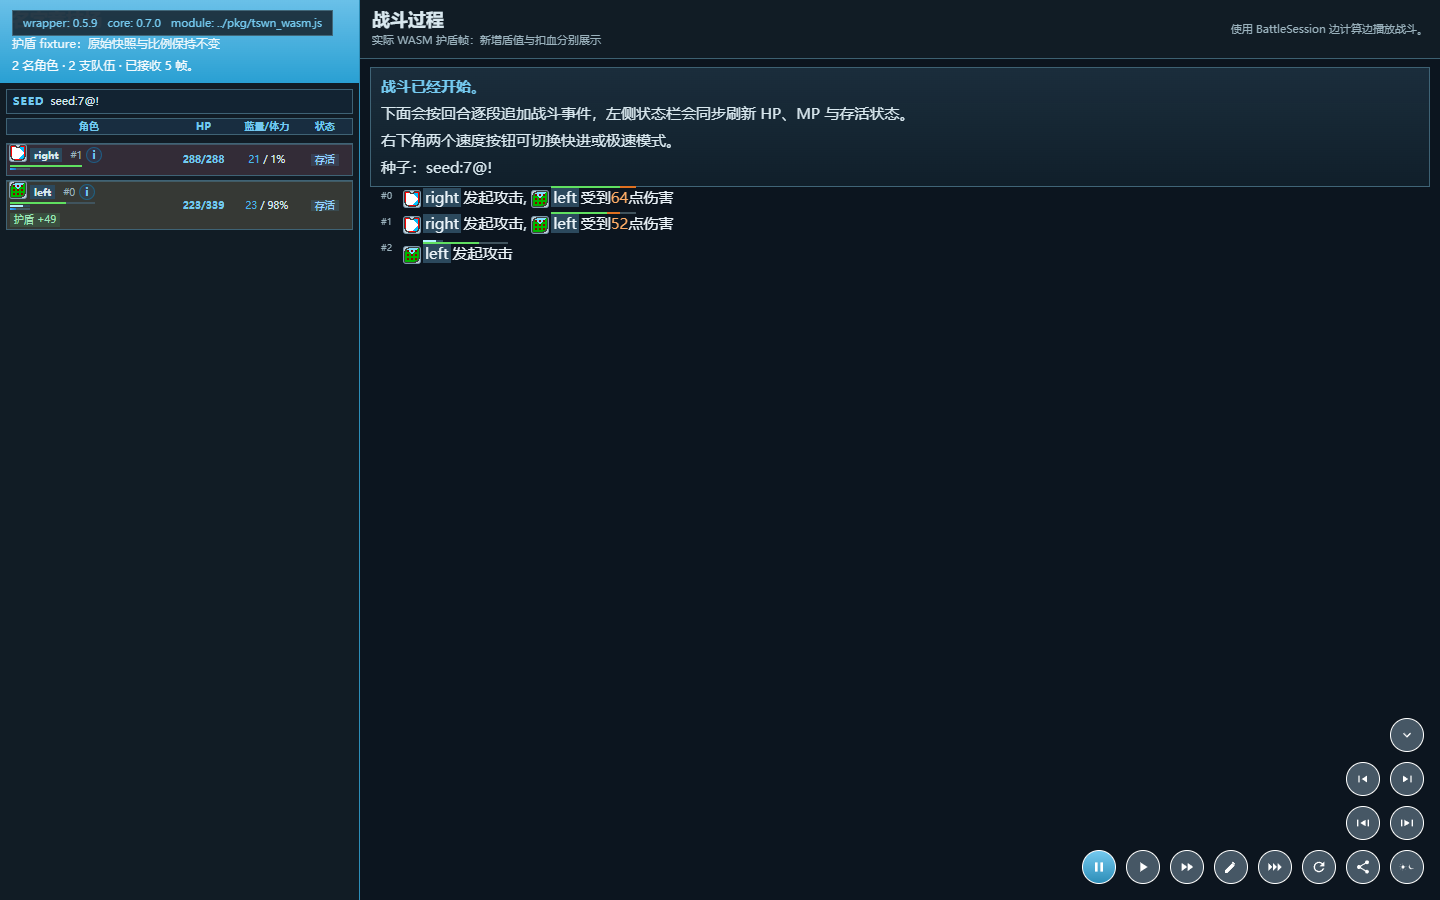
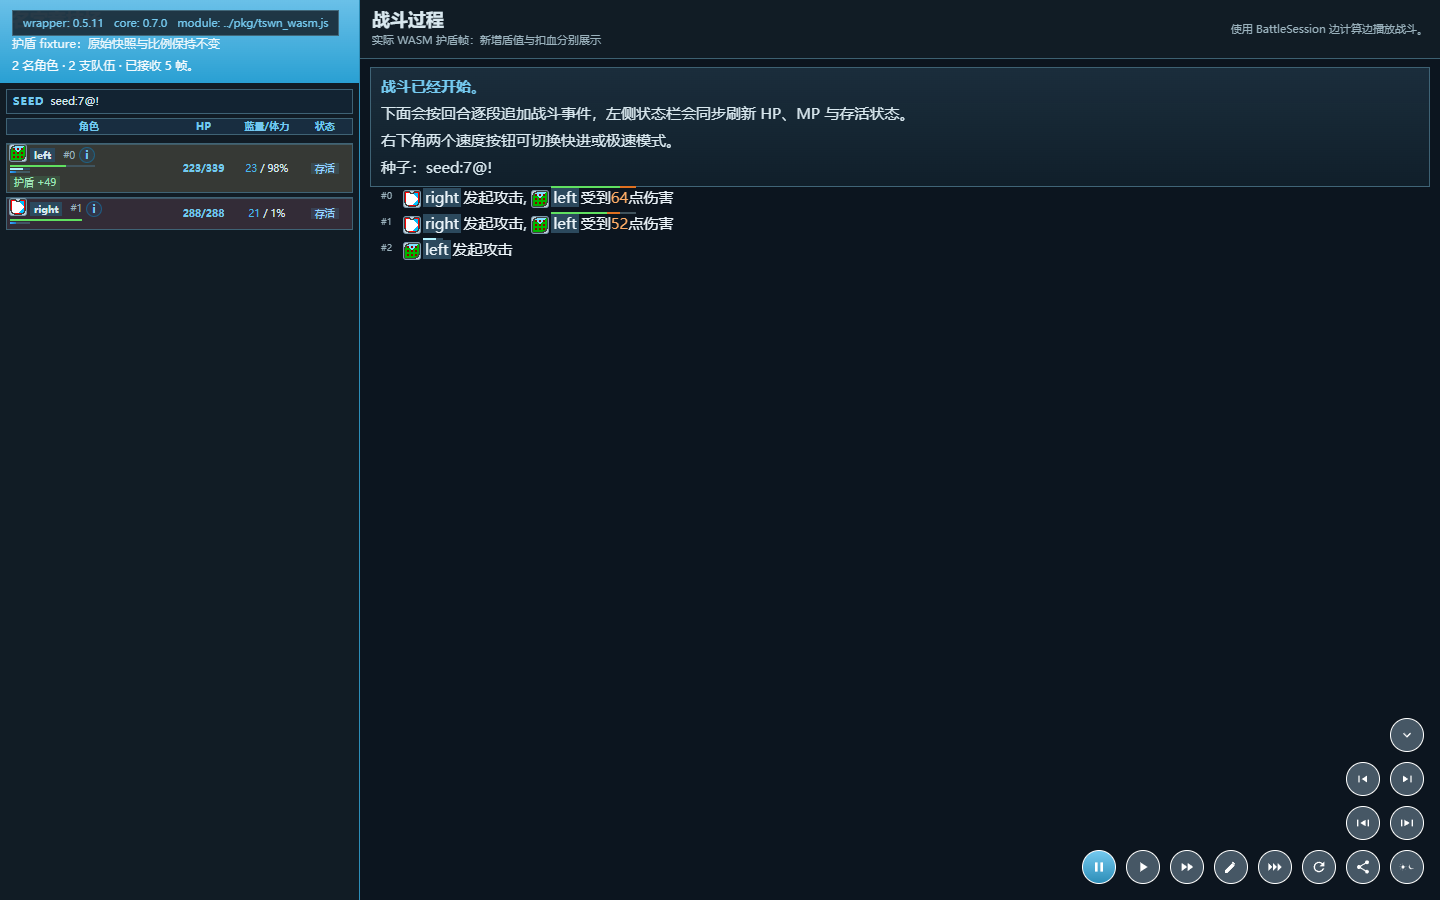
fix(wasm): 只有护盾变化时只画盾条并占用体力条槽位
之前只要盾条出现就会同时补一条体力条作为底轨，护盾单独变化时也会多画一条没变化
的 HP 条。现在两条条形各按自己的变化出现：

- 只有护盾变化：不画体力条，盾条落回体力条槽位（`.actor-vitals` 默认 `top: -2px`），
  盾条底边与名字顶边齐平。
- 体力与护盾同时变化：体力条在下、盾条紧贴其上（叠放规则收窄为 `.has-shield.has-hp`），
  行高留白也只在叠放时生效。
- 只有体力变化 / 都没变化：行为不变。

`show-render.js` 的体力条改为只由 `shouldShowHp`（体力变化或强制）触发；`show-replay.css`
的 `.has-shield .actor-vitals` 收窄为 `.has-shield.has-hp`；`show-players.css` 的行高留白
同样收窄。示例说明与 wasm README 同步改写，四张验收截图按 0.5.11 重新生成。

验证：`node --test crates/tswn_wasm/tests/show-*.test.mjs`（43 项，覆盖单盾条无体力条、
双变化叠放、单盾条占默认槽位与叠放时上移两条之和）、
`node --experimental-vm-modules scripts/verify_web_playback.mjs`（8 组）；真实浏览器实测
单盾条 token 为 `actor-token has-shield`、无 `.actor-hp`、`vitals top: -2px`、`margin-top: 0`。

Changed region(s): [[0.0, 0.1556, 0.25, 0.2489], [0.0625, 0.0, 0.25, 0.0311], [0.2812, 0.2489, 0.3438, 0.3111]]

diff --git a/crates/tswn_wasm/examples/show-render.js b/crates/tswn_wasm/examples/show-render.js
@@ -73,8 +73,9 @@ export function actorToken(player, state, previousState, update, { showHp = true
   const shieldChanged = shieldMetrics != null
     && (shieldMetrics.currentValue !== shieldMetrics.previousValue || (isNew && shieldMetrics.currentValue > 0));
   const hasShield = shieldChanged && !deathEffect;
-  // 盾条叠在体力条正上方；非扣血消息只配当前 HP，不凭快照差值制造额外扣血动画。
-  const hpMetrics = shouldShowHp || hasShield ? actorHpMetrics(state, shouldShowHp ? previousState : state) : null;
+  // 两条条形各自按自己的变化出现：只有护盾变化时不画体力条，让盾条占体力条的位置；
+  // 两条同时出现时由 CSS 竖排叠放。非扣血消息不凭快照差值制造额外扣血动画。
+  const hpMetrics = shouldShowHp ? actorHpMetrics(state, previousState) : null;
   const hpBar = hpMetrics
     ? `
             <span class="actor-hp" style="width:${hpMetrics.totalWidth}px">

diff --git a/crates/tswn_wasm/examples/show-replay.css b/crates/tswn_wasm/examples/show-replay.css
@@ -196,8 +196,11 @@
     z-index: 2;
 }
 
-/* 盾条叠在体力条正上方：竖排、左端对齐、上下紧贴，总高度正好是两条之和。 */
-.has-shield .actor-vitals {
+/*
+ * 两条条形同时出现时：盾条叠在体力条正上方（竖排、左端对齐、上下紧贴，总高度等于两条之和）。
+ * 只有盾条时不上移，直接占用体力条的位置（`.actor-vitals` 的默认 `top: -2px`）。
+ */
+.has-shield.has-hp .actor-vitals {
     top: -4px;
     flex-direction: column-reverse;
     align-items: flex-start;

diff --git a/crates/tswn_wasm/examples/show-players.css b/crates/tswn_wasm/examples/show-players.css
@@ -415,8 +415,8 @@
     background: var(--shield);
 }
 
-/* 正文中的盾条与体力条各 2px，为叠起来的两行留出行高，不能盖到上一行文字。 */
-.actor-token.has-shield {
+/* 盾条与体力条叠放时各占 2px，为这两行留出行高，不能盖到上一行文字；单盾条不需要额外留白。 */
+.actor-token.has-shield.has-hp {
     margin-top: 4px;
 }
 
